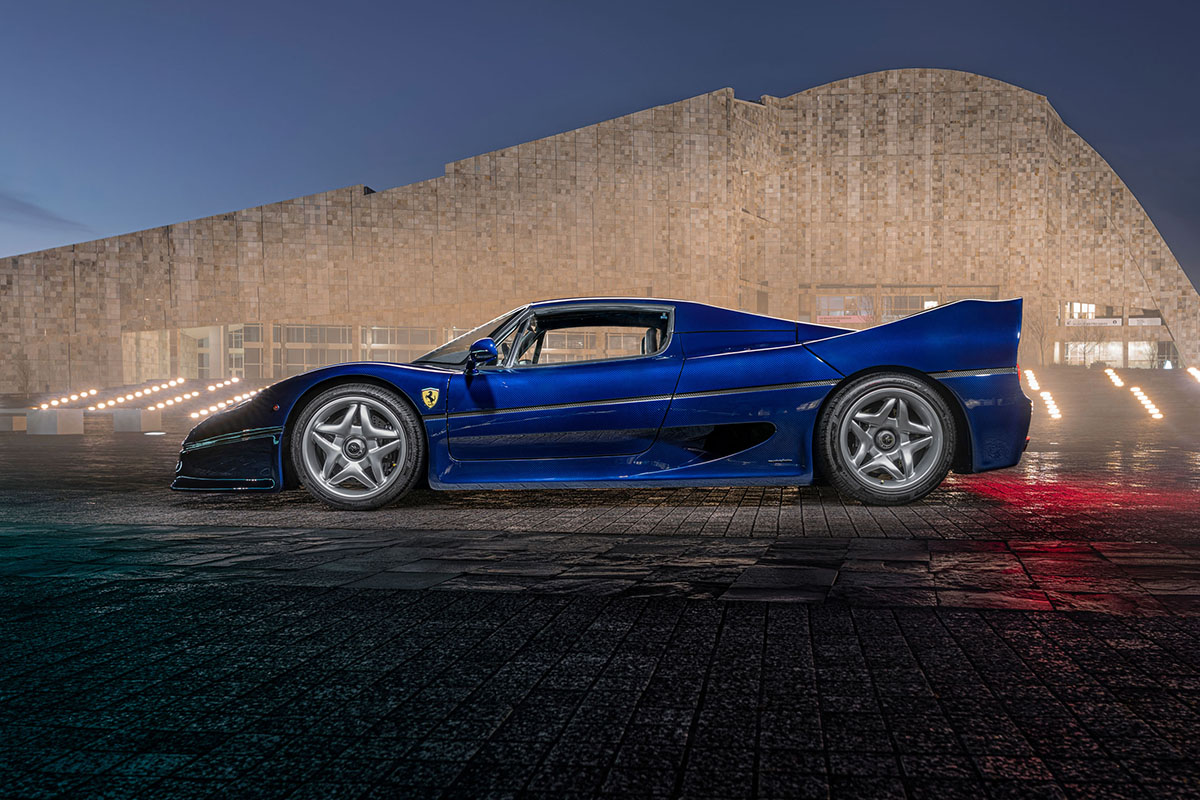
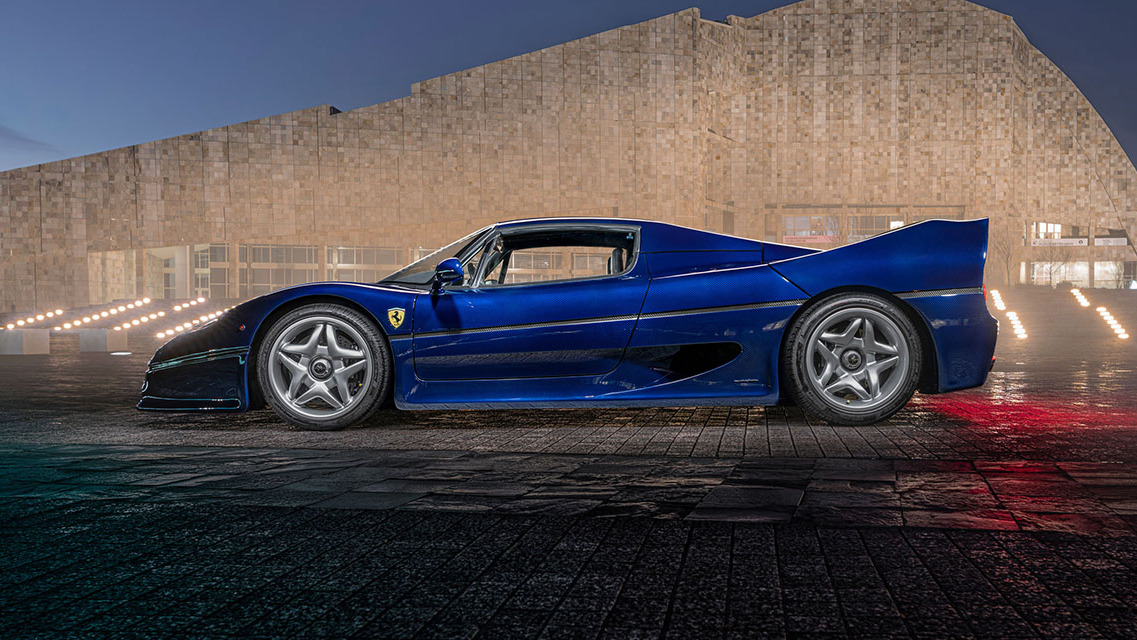
se redimensionaron las imagenes del carousel

diff --git a/index.html b/index.html
@@ -78,7 +78,6 @@
       <!-- Primer section -->
 
       <div class="container">
-        
         <div>
           <h2 class="portada-titulo">Bienvenidos a la pagina de Ferrari</h2>
         </div>
@@ -92,7 +91,7 @@
           </div>
           <div class="carousel-inner">
             <div class="carousel-item active">
-              <img src="./img/ferrari-f50-carousel.webp" class="d-block w-100" alt="...">
+              <img src="./img/ferrari-f50-carousel.jpg" class="d-block w-100" alt="...">
             </div>
             <div class="carousel-item">
               <img src="./img/ferrari-f50-carousel2.jpg" class="d-block w-100" alt="...">
